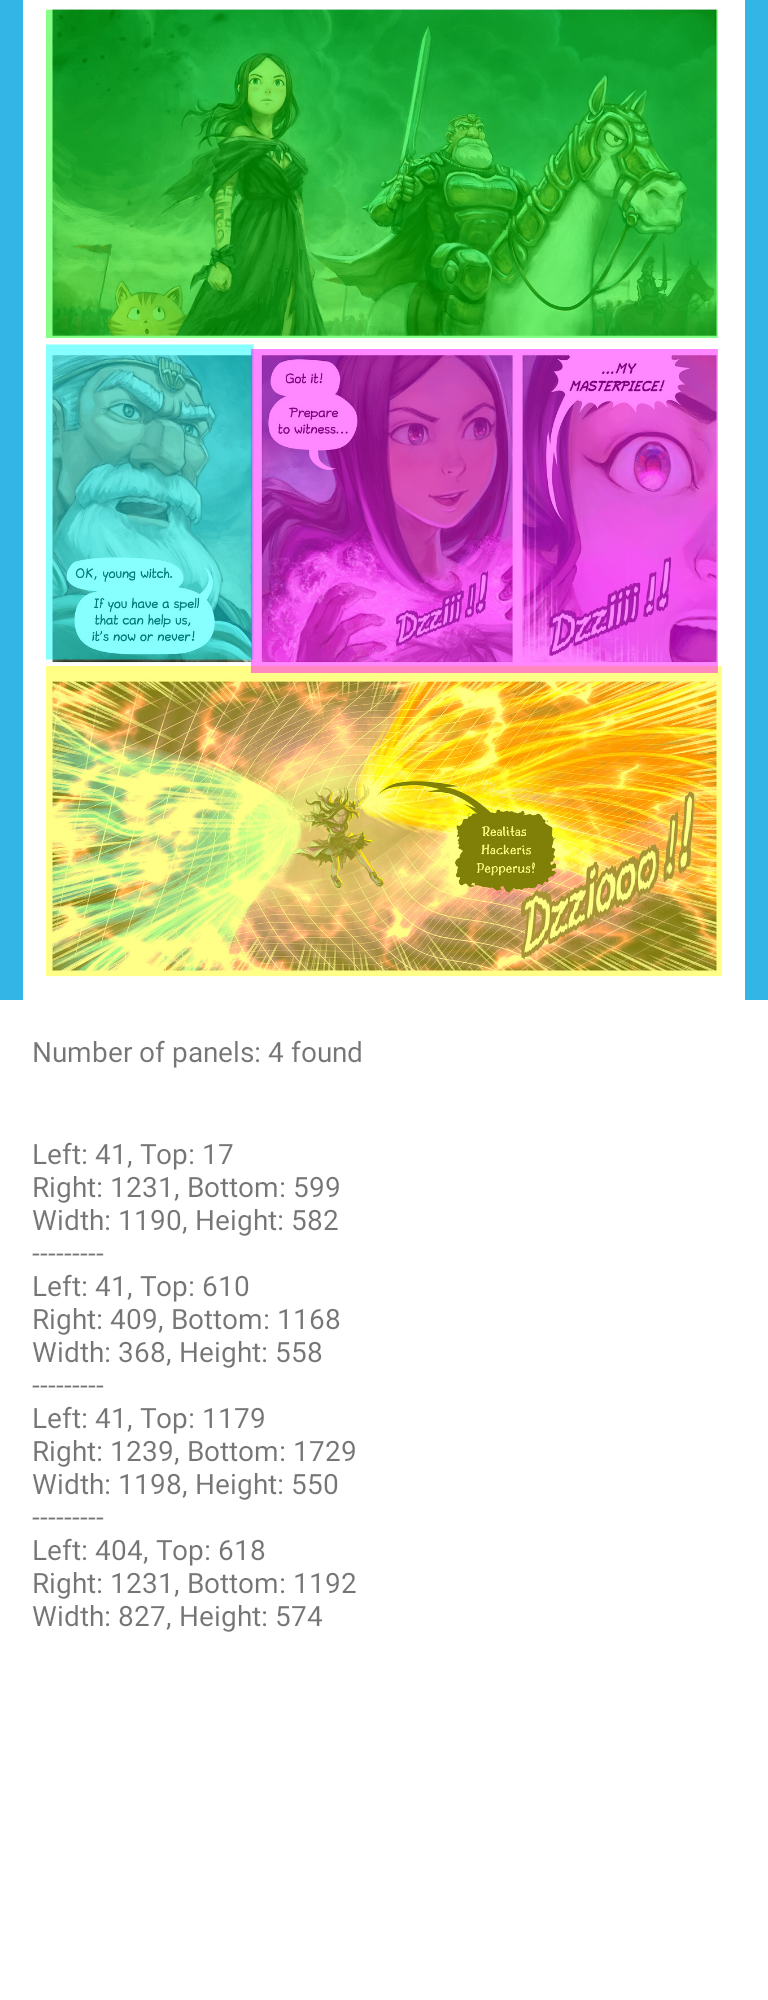
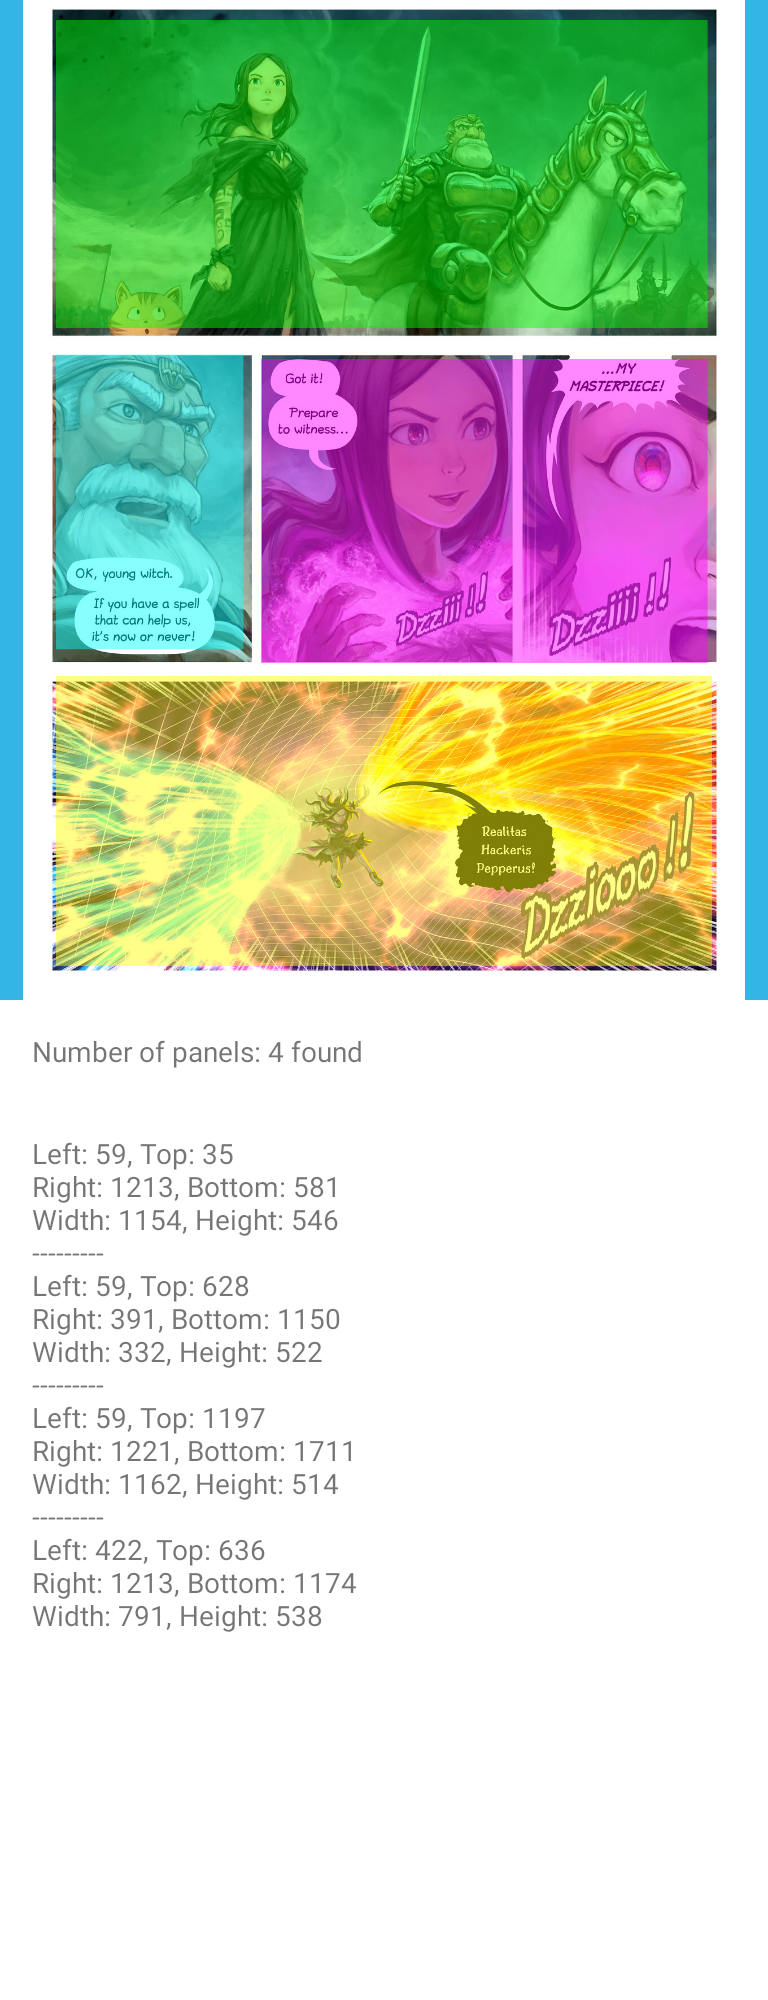
Improve c++ code

diff --git a/deeppanel/src/main/cpp/deep-panel.cpp b/deeppanel/src/main/cpp/deep-panel.cpp
@@ -1,16 +1,6 @@
-class Panel {
-public:
-    int left;
-    int bottom;
-    int right;
-    int top;
-};
-
-class DeepPanelResult {
-public:
-    ConnectedComponentResult connected_components;
-    Panel *panels;
-};
+#include <stdlib.h>
+#include "deep-panel.hpp"
+#include "connected-components.hpp"
 
 ConnectedComponentResult remove_small_areas_and_recover_border(
         ConnectedComponentResult connected_component_result,
@@ -62,13 +52,21 @@ int clamp(int value, int min, int max) {
     }
 }
 
+int compute_border_size(int original_image_width, int original_image_height) {
+    if (original_image_height > original_image_width) {
+        return original_image_width * 30 / 3056;
+    } else {
+        return original_image_height * 30 / 1988;
+    }
+}
+
 DeepPanelResult
 extract_panels_data(ConnectedComponentResult connected_components_result,
                     int width,
                     int height,
                     float scale,
-                    jint original_image_width,
-                    jint original_image_height) {
+                    int original_image_width,
+                    int original_image_height) {
     int number_of_panels = connected_components_result.total_clusters;
     int current_normalized_label = 0;
     int *normalized_labels = new int[width * height] { 0 };
@@ -106,7 +104,7 @@ extract_panels_data(ConnectedComponentResult connected_components_result,
     } else {
         vertical_correction = ((height * scale) - original_image_height) / 2;
     }
-    int border = 30;
+    int border = compute_border_size(original_image_width, original_image_height);
     for (int i = 1; i <= number_of_panels; i++) {
         Panel panel;
         int proposed_left =
@@ -137,8 +135,8 @@ extract_panels_data(ConnectedComponentResult connected_components_result,
 DeepPanelResult extract_panels_info(int **labeled_matrix,
                                     int width,
                                     int height, float scale,
-                                    jint original_image_width,
-                                    jint original_image_height) {
+                                    int original_image_width,
+                                    int original_image_height) {
     ConnectedComponentResult improved_areas_result = find_components(labeled_matrix, width, height);
     improved_areas_result = remove_small_areas_and_recover_border(improved_areas_result, width, height);
     return extract_panels_data(improved_areas_result, width, height, scale, original_image_width,

diff --git a/deeppanel/src/main/cpp/connected-components.cpp b/deeppanel/src/main/cpp/connected-components.cpp
@@ -1,12 +1,7 @@
+#include <stdio.h>
 #include <cstdlib>
 #include <cassert>
-
-class ConnectedComponentResult {
-public:
-    int total_clusters;
-    int **clusters_matrix;
-    int *pixels_per_labels;
-};
+#include "connected-components.hpp"
 
 /* Implementation of Union-Find Algorithm and Hoshen Kopelman Algorithm (aka Connected Component Labeling).
  * You can find the reference implementation here: https://www.ocf.berkeley.edu/~fricke/projects/hoshenkopelman/hk.c.

diff --git a/deeppanel/src/main/cpp/deep-panel.hpp b/deeppanel/src/main/cpp/deep-panel.hpp
@@ -1,0 +1,11 @@
+#ifndef deep_panel_hpp
+#define deep_panel_hpp
+
+#include "DeepPanelResult.hpp"
+
+DeepPanelResult extract_panels_info(int **labeled_matrix,
+                                    int width,
+                                    int height, float scale,
+                                    int original_image_width,
+                                    int original_image_height);
+#endif /* deep_panel_h */

diff --git a/deeppanel/src/main/cpp/Panel.hpp b/deeppanel/src/main/cpp/Panel.hpp
@@ -1,0 +1,23 @@
+//
+//  Panel.hpp
+//  DeepPanel
+//
+//  Created by Pedro Gómez on 11/10/2020.
+//  Copyright © 2020 Pedro Gómez. All rights reserved.
+//
+
+#ifndef Panel_hpp
+#define Panel_hpp
+
+#include <stdio.h>
+
+class Panel {
+public:
+    int left;
+    int bottom;
+    int right;
+    int top;
+};
+
+
+#endif /* Panel_hpp */

diff --git a/deeppanel/src/main/cpp/DeepPanelResult.hpp b/deeppanel/src/main/cpp/DeepPanelResult.hpp
@@ -1,0 +1,14 @@
+#ifndef DeepPanelResult_hpp
+#define DeepPanelResult_hpp
+
+#include <stdio.h>
+#include "Panel.hpp"
+#include "ConnectedComponentResult.hpp"
+
+class DeepPanelResult {
+public:
+    ConnectedComponentResult connected_components;
+    Panel *panels;
+};
+
+#endif /* DeepPanelResult_hpp */

diff --git a/deeppanel/src/main/cpp/ConnectedComponentResult.hpp b/deeppanel/src/main/cpp/ConnectedComponentResult.hpp
@@ -1,0 +1,11 @@
+#ifndef ConnectedComponentResult_h
+#define ConnectedComponentResult_h
+
+class ConnectedComponentResult {
+public:
+    int total_clusters;
+    int **clusters_matrix;
+    int *pixels_per_labels;
+};
+
+#endif /* ConnectedComponentResult_h */

diff --git a/deeppanel/src/main/cpp/connected-components.hpp b/deeppanel/src/main/cpp/connected-components.hpp
@@ -1,0 +1,7 @@
+#ifndef connected_components_h
+#define connected_components_h
+#import "ConnectedComponentResult.hpp"
+
+ConnectedComponentResult find_components(int **matrix, int m, int n);
+
+#endif /* connected_components_h */
